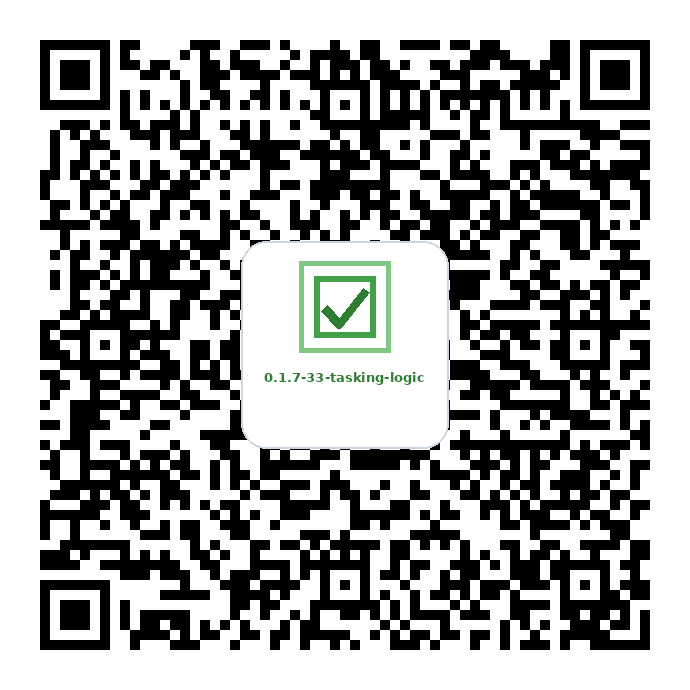
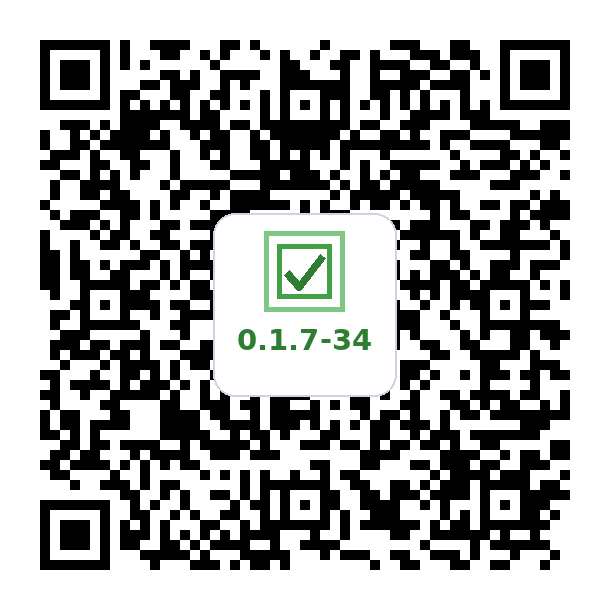
deploy: feaa161c85f159f8d63048a7b8abac28532cecac

diff --git a/index.html b/index.html
@@ -198,23 +198,13 @@
       <ol>
         <li>
           <strong>Scan or Download:</strong> Point your phone's camera at the QR code below, or click the direct download link if viewing this page on your phone:
-          <div class="qr-row">
-            <div class="qr-container">
-            <div class="qr-label">Stable Release</div>
-            <img src="qr-main.png" alt="MicroTasking APK QR Code (v0.1.7-30)">
+          <div class="qr-container">
+            
+            <img src="qr.png" alt="MicroTasking APK QR Code (v0.1.7-34)">
             <br>
-            <a href="https://github.com/vemcg/MicroTasking/releases/download/v0.1.7-30/MicroTasking-v0.1.7-30.apk" class="btn" target="_blank" rel="noopener">Download MicroTasking APK (v0.1.7-30)</a>
+            <a href="https://github.com/vemcg/MicroTasking/releases/download/v0.1.7-34/MicroTasking-v0.1.7-34.apk" class="btn" target="_blank" rel="noopener">Download MicroTasking APK (v0.1.7-34)</a>
             <br>
-            <a href="https://github.com/vemcg/MicroTasking/releases/download/v0.1.7-30/MicroTasking-v0.1.7-30.apk" target="_blank" rel="noopener">Open the download again</a>
-          </div>
-            <div class="qr-container">
-            <div class="qr-label">tasking-logic</div>
-            <img src="qr.png" alt="MicroTasking APK QR Code (v0.1.7-33-tasking-logic)">
-            <br>
-            <a href="https://github.com/vemcg/MicroTasking/releases/download/v0.1.7-33-tasking-logic/MicroTasking-v0.1.7-33-tasking-logic.apk" class="btn" target="_blank" rel="noopener">Download MicroTasking APK (v0.1.7-33-tasking-logic)</a>
-            <br>
-            <a href="https://github.com/vemcg/MicroTasking/releases/download/v0.1.7-33-tasking-logic/MicroTasking-v0.1.7-33-tasking-logic.apk" target="_blank" rel="noopener">Open the download again</a>
-          </div>
+            <a href="https://github.com/vemcg/MicroTasking/releases/download/v0.1.7-34/MicroTasking-v0.1.7-34.apk" target="_blank" rel="noopener">Open the download again</a>
           </div>
         </li>
         <li>
